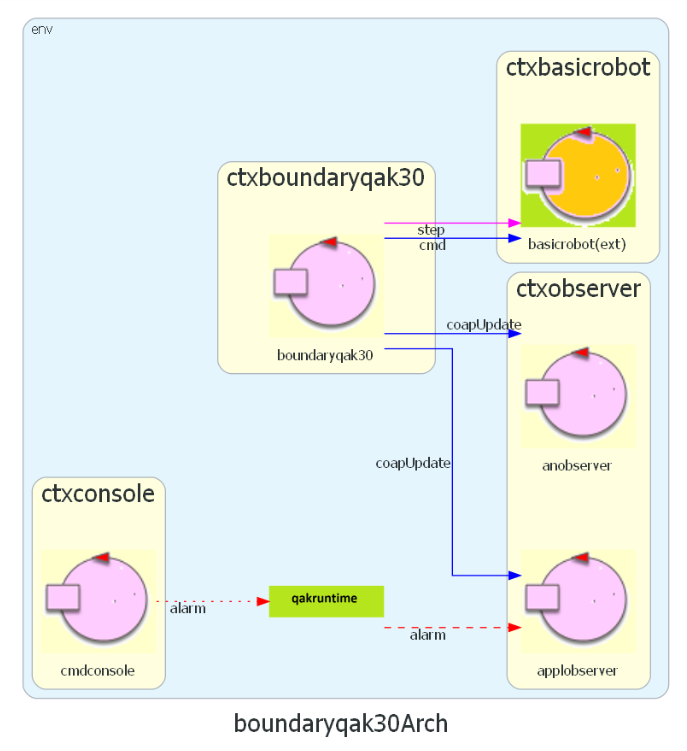
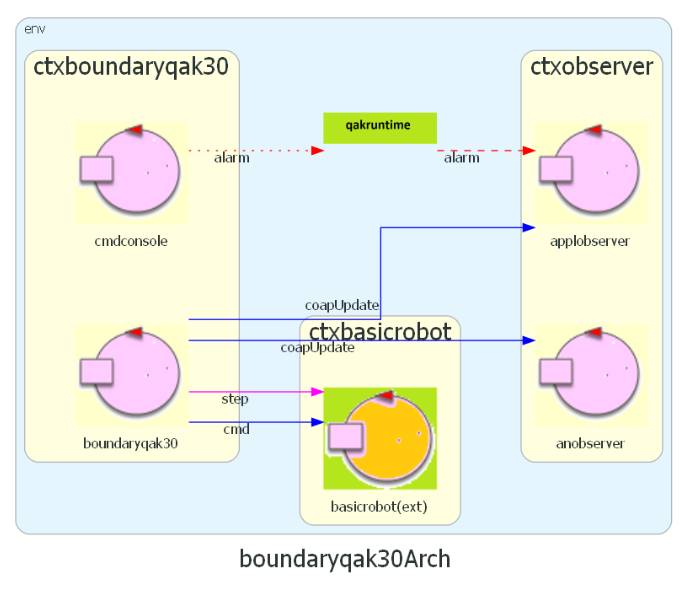
demoqak30

diff --git a/unibo.qk30demo/src/it/unibo/anobserver/Anobserver.kt b/unibo.qk30demo/src/it/unibo/anobserver/Anobserver.kt
@@ -26,7 +26,7 @@ class Anobserver ( name: String, scope: CoroutineScope  ) : ActorBasicFsm( name,
 					action { //it:State
 						if( checkMsgContent( Term.createTerm("coapUpdate(RESOURCE,VALUE)"), Term.createTerm("coapUpdate(RESOURCE,VALUE)"), 
 						                        currentMsg.msgContent()) ) { //set msgArgList
-								 MsgUtil.outgreen("applobserver OBSERVES: ${payloadArg(1)} FROM ${payloadArg(0)} ")  
+								 MsgUtil.outgreen("anobserver OBSERVES: ${payloadArg(1)} FROM ${payloadArg(0)} ")  
 						}
 					}
 					 transition(edgeName="t06",targetState="handleUpdate",cond=whenDispatch("coapUpdate"))

diff --git a/unibo.qk30demo/Arch_boundaryqak30.py b/unibo.qk30demo/Arch_boundaryqak30.py
@@ -21,13 +21,11 @@ with Diagram('boundaryqak30Arch', show=False, outformat='png', graph_attr=grapha
      sys = Custom('','./qakicons/system.png')
      with Cluster('ctxboundaryqak30', graph_attr=nodeattr):
           boundaryqak30=Custom('boundaryqak30','./qakicons/symActorSmall.png')
-     with Cluster('ctxbasicrobot', graph_attr=nodeattr):
-          basicrobot=Custom('basicrobot(ext)','./qakicons/externalQActor.png')
-     with Cluster('ctxconsole', graph_attr=nodeattr):
           cmdconsole=Custom('cmdconsole','./qakicons/symActorSmall.png')
-     with Cluster('ctxobserver', graph_attr=nodeattr):
           anobserver=Custom('anobserver','./qakicons/symActorSmall.png')
           applobserver=Custom('applobserver','./qakicons/symActorSmall.png')
+     with Cluster('ctxbasicrobot', graph_attr=nodeattr):
+          basicrobot=Custom('basicrobot(ext)','./qakicons/externalQActor.png')
      boundaryqak30 >> Edge(color='magenta', style='solid', xlabel='step') >> basicrobot
      boundaryqak30 >> Edge(color='blue', style='solid', xlabel='cmd') >> basicrobot
      cmdconsole >> Edge( xlabel='alarm', **eventedgeattr) >> sys
